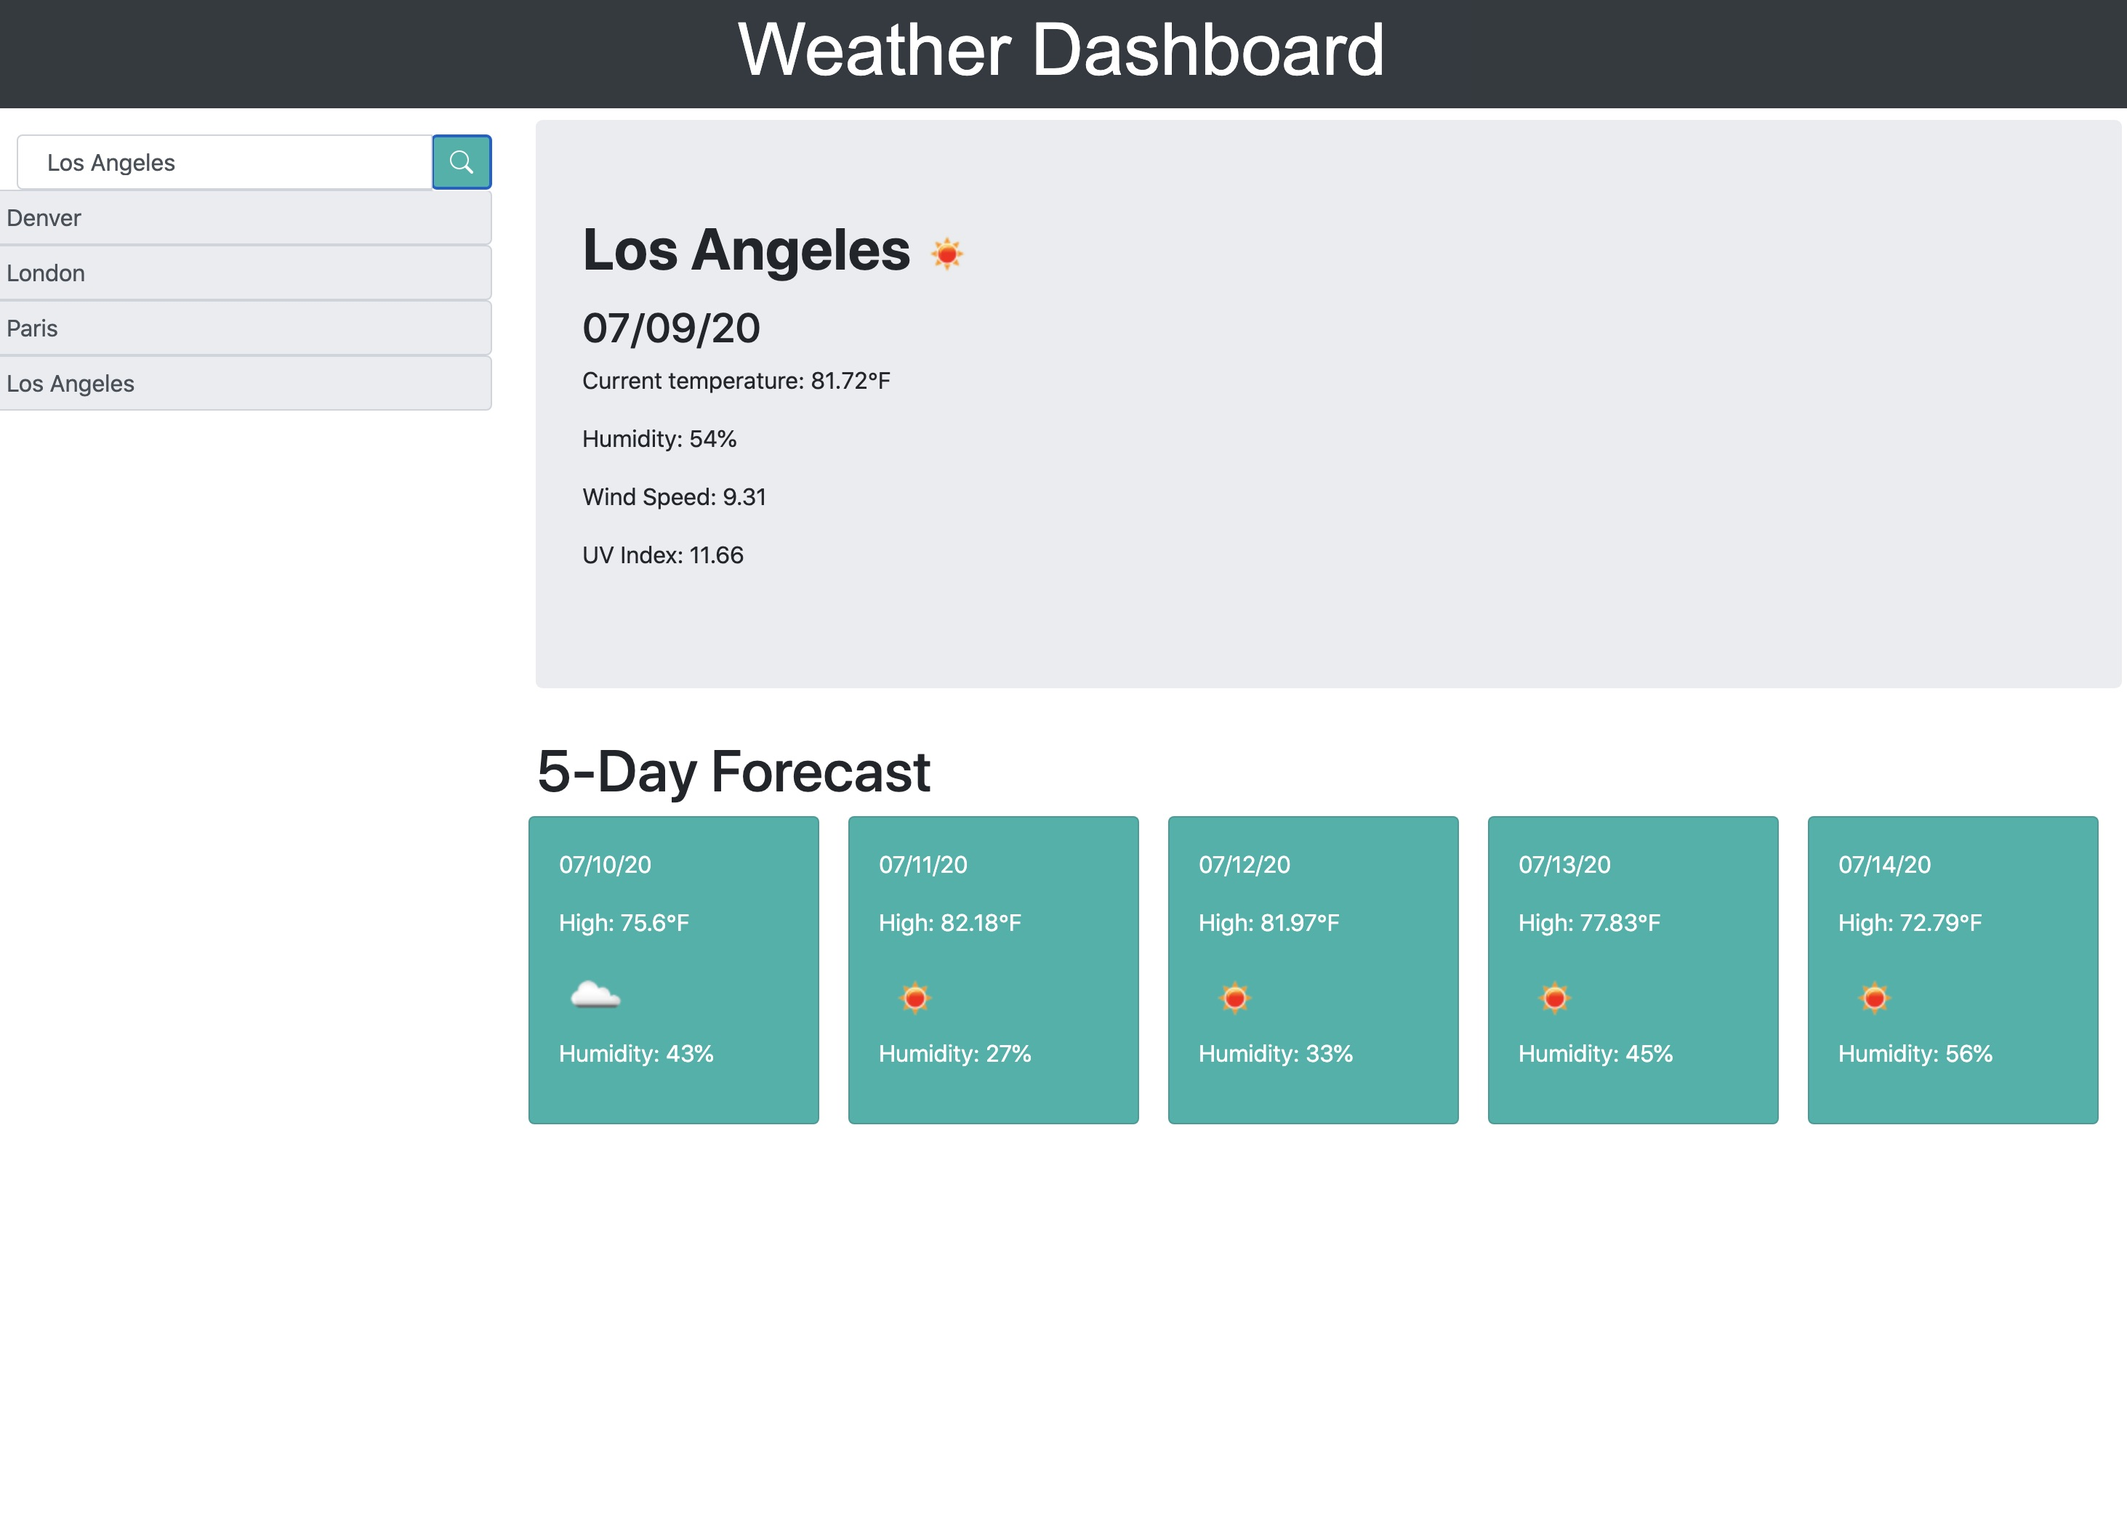
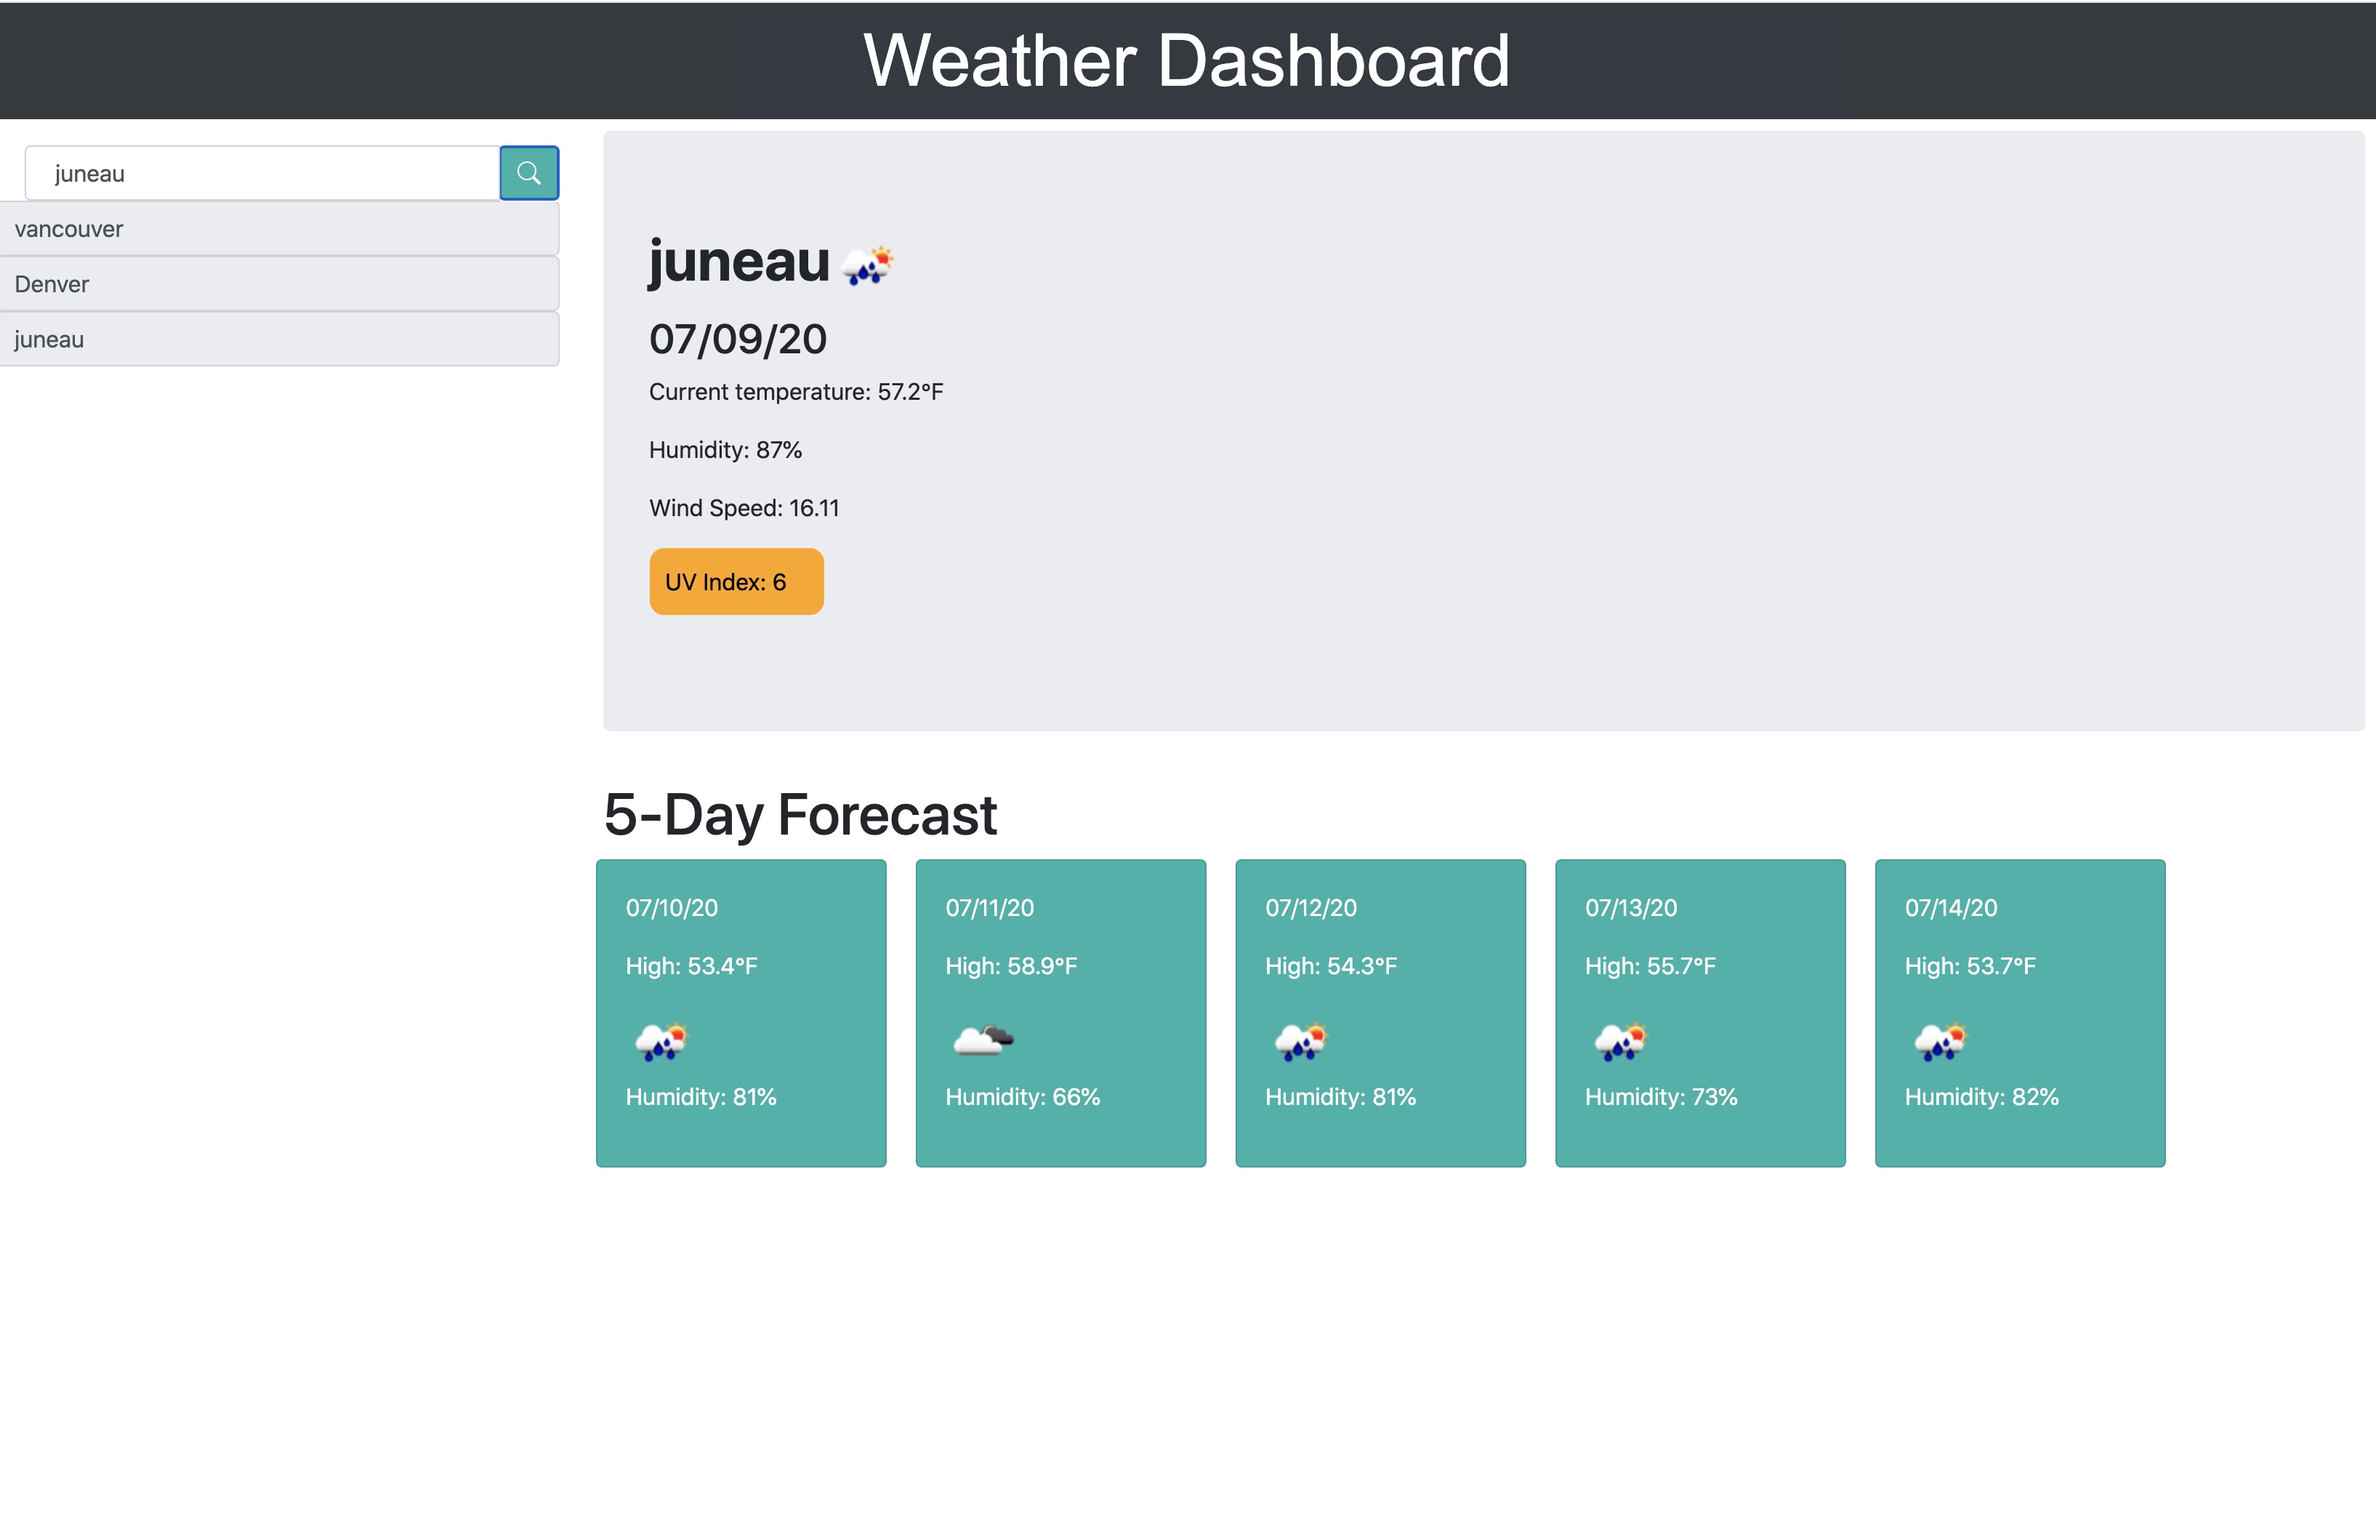
updated README and new jpg

Changed region(s): [[0.2488, 0.4986, 0.9952, 0.779], [0.0, 0.0, 1.0, 0.2804], [0.2488, 0.1558, 0.4665, 0.4051]]

diff --git a/README.md b/README.md
@@ -1,12 +1,13 @@
 # Weather-Dashboard
 https://taorman75.github.io/Weather-Dashboard/
 
-This weather dashboard provides both the current conditions and the 5-day forecast of any city that the user enters in the search box. Information for the current day includes the current temperature, humidity, wind speed, and UV index. The 5-day forecast includes the date, high temperature, and humidity.
+This weather dashboard provides both the current conditions and the 5-day forecast of any city that the user enters in the search box. Information for the current day includes the current temperature, humidity, wind speed, and a color-coded UV index. The 5-day forecast includes the date, high temperature, and humidity.
 
 Cities searched list on the left side of the page and are stored in local storage until manually wiped, so that a traveller can look at the cities recently searched.
 
+This weather dashboard was built utilizing the BootStrap CSS Framework.
 
-![weather dashboard screen shot](https://github.com/taorman75/Weather-Dashboard/blob/master/WeatherDashboard.jpeg)
+![weather dashboard screen shot](https://github.com/taorman75/Weather-Dashboard/blob/master/WeatherDashboard.jpg)
 
 
-*Author - Tana Orman (powered by BootStrap)*
+*Author - Tana Orman*
